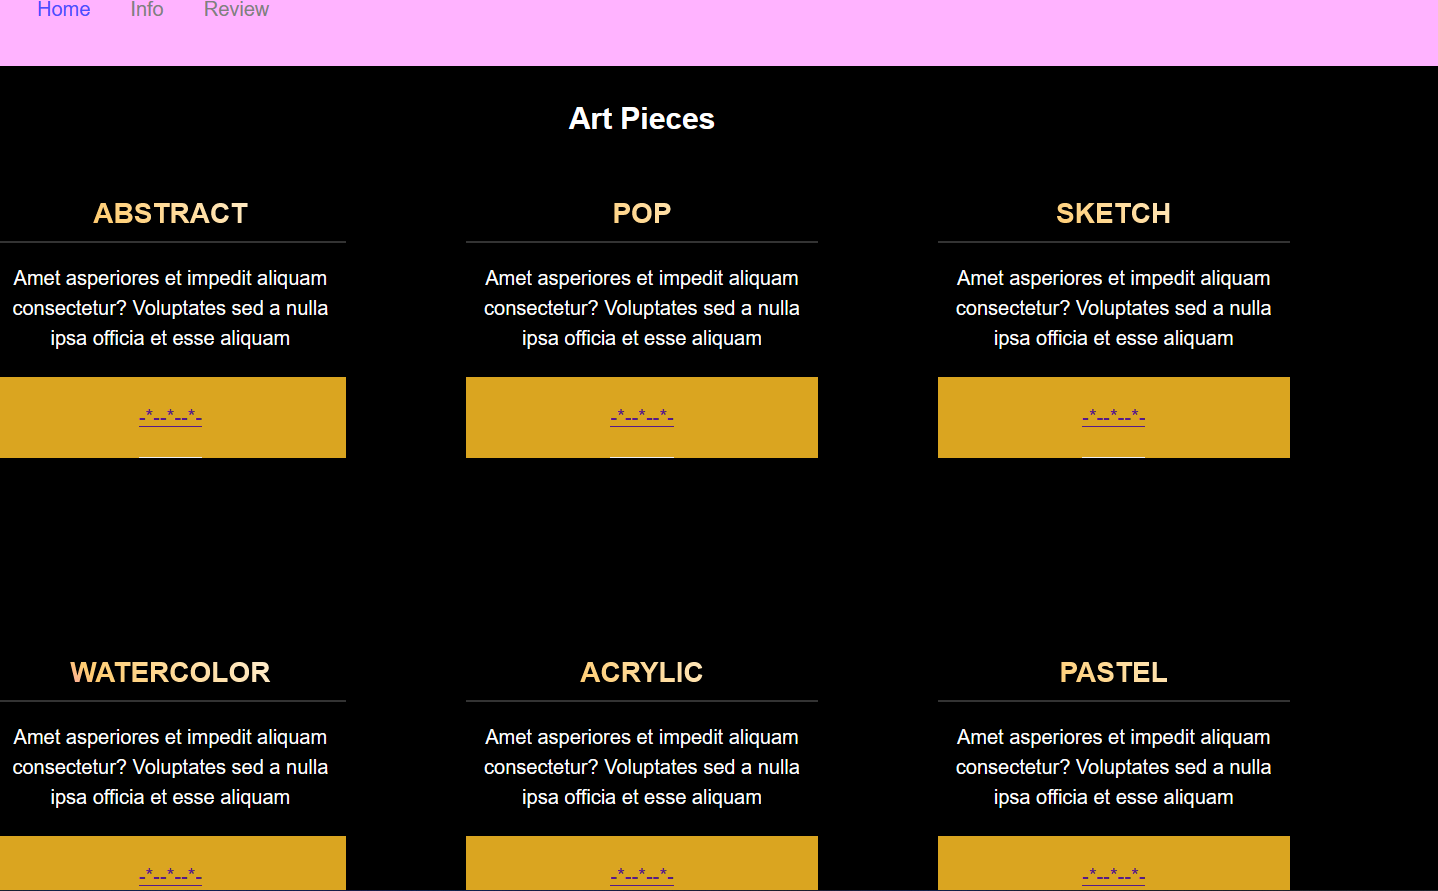
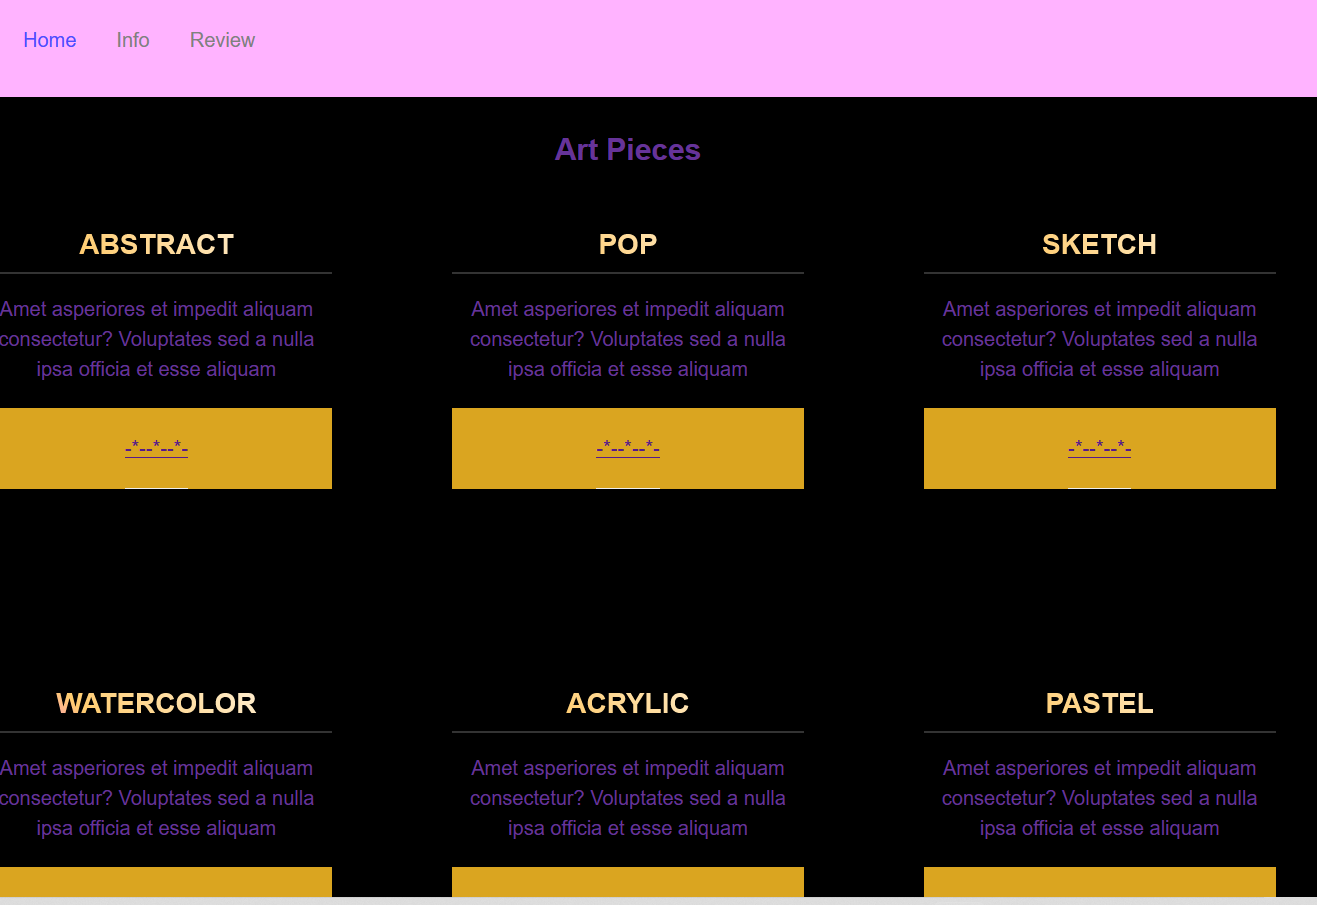
hover media query fixed

diff --git a/src/App.css b/src/App.css
@@ -69,6 +69,13 @@
       ul {
         background-color: goldenrod;
       }
+      
+      @media (hover: hover) {
+        body {
+          color: rebeccapurple;
+        }
+      }
+      
      }
 
 /* .App-link {

diff --git a/src/pages/ProjectContainer.css b/src/pages/ProjectContainer.css
@@ -77,4 +77,11 @@
       ul {
         background-color: goldenrod;
       }
+
+      @media (hover: hover) {
+        .project:hover {
+          color: goldenrod;
+        }
+      }
+      
      }

diff --git a/src/pages/blogs.css b/src/pages/blogs.css
@@ -187,4 +187,11 @@ ul li.editMode label {
  ul {
 	background-color: goldenrod;
  }
+
+ @media (hover: hover) {
+	body {
+	  color: rebeccapurple;
+	}
+  }
+  
 }

diff --git a/src/pages/Projects.css b/src/pages/Projects.css
@@ -34,4 +34,11 @@
  ul {
     background-color: goldenrod;
  }
+ 
+ @media (hover: hover) {
+    body {
+      color: rebeccapurple;
+    }
+  }
+  
 }

diff --git a/src/pages/about.css b/src/pages/about.css
@@ -38,4 +38,11 @@
  ul {
     background-color: goldenrod;
  }
+
+ @media (hover: hover) {
+    body {
+      color: rebeccapurple;
+    }
+  }
+  
 }

diff --git a/README.md b/README.md
@@ -50,9 +50,10 @@ Editing a comment:
  - Press delete
 
 
-The (2) media queries:
+The (3) media queries:
 - resizing (screen should adjust to laptop, phone, or tablet)
 - Dark mode (acreen should adjust to the laptop being in dark mode)
+- Hover (Go to home page while in DARK MODE and hover mouse over the options. SHould go from purple to goldenrod color)
 
 
 (3) features of the app:
